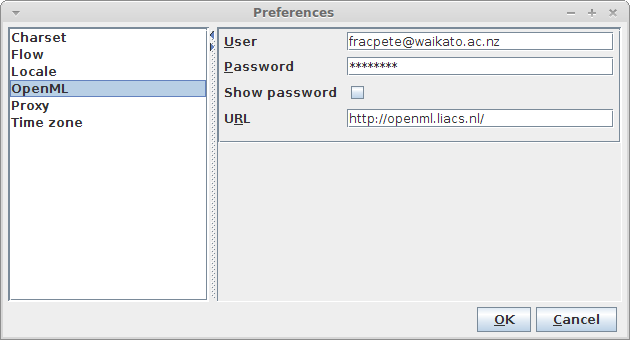
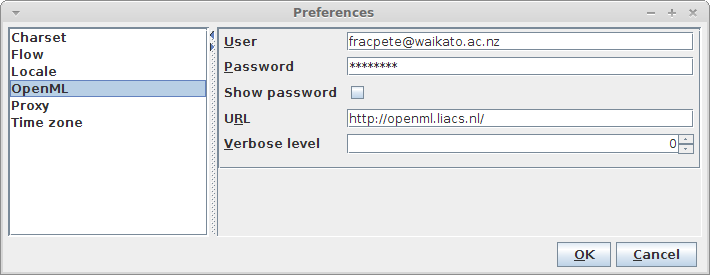
verbose level is now configurable from preferences panel

Changed region(s): [[0.0, 0.0, 1.0, 0.9018], [0.754, 0.8727, 0.9952, 0.9891]]

diff --git a/adams-openml/src/main/java/adams/gui/application/OpenMLSetupPanel.java b/adams-openml/src/main/java/adams/gui/application/OpenMLSetupPanel.java
@@ -25,7 +25,9 @@ import java.awt.event.ActionListener;
 
 import javax.swing.JCheckBox;
 import javax.swing.JPasswordField;
+import javax.swing.JSpinner;
 import javax.swing.JTextField;
+import javax.swing.SpinnerNumberModel;
 
 import adams.core.Constants;
 import adams.core.Properties;
@@ -59,6 +61,9 @@ public class OpenMLSetupPanel
   /** the URL. */
   protected JTextField m_TextURL;
 
+  /** the verbose level. */
+  protected JSpinner m_SpinnerVerboseLevel;
+  
   /**
    * Initializes the members.
    */
@@ -95,6 +100,13 @@ public class OpenMLSetupPanel
     m_TextURL = new JTextField(20);
     m_TextURL.setText(OpenMLHelper.getURL());
     m_PanelParameters.addParameter("U_RL", m_TextURL);
+
+    m_SpinnerVerboseLevel = new JSpinner();
+    ((SpinnerNumberModel) m_SpinnerVerboseLevel.getModel()).setMinimum(0);
+    ((SpinnerNumberModel) m_SpinnerVerboseLevel.getModel()).setMaximum(2);
+    ((SpinnerNumberModel) m_SpinnerVerboseLevel.getModel()).setStepSize(1);
+    m_SpinnerVerboseLevel.setValue(OpenMLHelper.getVerboseLevel());
+    m_PanelParameters.addParameter("_Verbose level", m_SpinnerVerboseLevel);
   }
 
   /**
@@ -110,6 +122,7 @@ public class OpenMLSetupPanel
     result.setProperty(OpenMLHelper.USER, m_TextUser.getText());
     result.setProperty(OpenMLHelper.PASSWORD, m_TextPassword.getText());
     result.setProperty(OpenMLHelper.URL, m_TextURL.getText());
+    result.setInteger(OpenMLHelper.VERBOSE_LEVEL, ((SpinnerNumberModel) m_SpinnerVerboseLevel.getModel()).getNumber().intValue());
 
     return result;
   }

diff --git a/adams-openml/src/main/java/adams/core/net/OpenMLHelper.java b/adams-openml/src/main/java/adams/core/net/OpenMLHelper.java
@@ -46,6 +46,9 @@ public class OpenMLHelper {
 
   /** the URL. */
   public final static String URL = "URL";
+
+  /** the verbose leve. */
+  public final static String VERBOSE_LEVEL = "VerboseLevel";
   
   /** the properties. */
   protected static Properties m_Properties;
@@ -100,7 +103,7 @@ public class OpenMLHelper {
    * @return		the user
    */
   public static String getUser() {
-    return getProperties().getPath(USER, "");
+    return getProperties().getProperty(USER, "");
   }
 
   /**
@@ -109,7 +112,7 @@ public class OpenMLHelper {
    * @return		the password
    */
   public static BasePassword getPassword() {
-    return new BasePassword(getProperties().getPath(PASSWORD, ""));
+    return new BasePassword(getProperties().getProperty(PASSWORD, ""));
   }
 
   /**
@@ -118,9 +121,18 @@ public class OpenMLHelper {
    * @return		the URL
    */
   public static String getURL() {
-    return getProperties().getPath(URL, "http://openml.liacs.nl/");
+    return getProperties().getProperty(URL, "http://openml.liacs.nl/");
   }
-  
+
+  /**
+   * Returns the verbose level.
+   *
+   * @return		the level
+   */
+  public static int getVerboseLevel() {
+    return getProperties().getInteger(VERBOSE_LEVEL, 0);
+  }
+
   /**
    * Extracts the status from the JSON result.
    * 

diff --git a/adams-openml/src/main/latex/adams-openml-manual/adams-openml-manual.tex b/adams-openml/src/main/latex/adams-openml-manual/adams-openml-manual.tex
@@ -75,9 +75,17 @@ The following standalones are available:
 \begin{tight_itemize}
 	\item \textit{OpenMLConnection} -- defines how to connect to the OpenML.org repository.
 \end{tight_itemize}
-The following souerces are available:
+The following sources are available:
 \begin{tight_itemize}
+	\item \textit{OpenMLListDatasets} -- Lists available datasets and their versions.
 	\item \textit{OpenMLSqlQuery} -- Outputs the results of a SQL query as JSON object.
+\end{tight_itemize}
+The following transformers are available:
+\begin{tight_itemize}
+	\item \textit{OpenMLDataFeatures} -- Retrieves features on data.
+	\item \textit{OpenMLDataQualities} -- Retrieves qualities on data.
+	\item \textit{OpenMLDataFeatures} -- Retrieves features on data.
+	\item \textit{OpenMLDatasetDescription} -- Loads the description for a dataset.
 \end{tight_itemize}
 The following conversions are available:
 \begin{tight_itemize}

diff --git a/adams-openml/src/main/java/adams/flow/standalone/OpenMLConnection.java b/adams-openml/src/main/java/adams/flow/standalone/OpenMLConnection.java
@@ -23,6 +23,7 @@ package adams.flow.standalone;
 import java.util.Date;
 
 import org.openml.apiconnector.io.ApiConnector;
+import org.openml.apiconnector.settings.Settings;
 import org.openml.apiconnector.xml.Authenticate;
 
 import adams.core.DateFormat;
@@ -252,8 +253,10 @@ public class OpenMLConnection
     result = null;
     
     try {
-      if (m_Connector == null)
+      if (m_Connector == null) {
 	m_Connector = new ApiConnector(m_URL);
+	Settings.API_VERBOSE_LEVEL = OpenMLHelper.getVerboseLevel();
+      }
       m_Session = m_Connector.openmlAuthenticate(m_User, m_Password.getValue());
       if (isLoggingEnabled())
 	getLogger().info("sessionHash=" + m_Session.getSessionHash() + ", validUntil=" + m_Session.getValidUntil());
